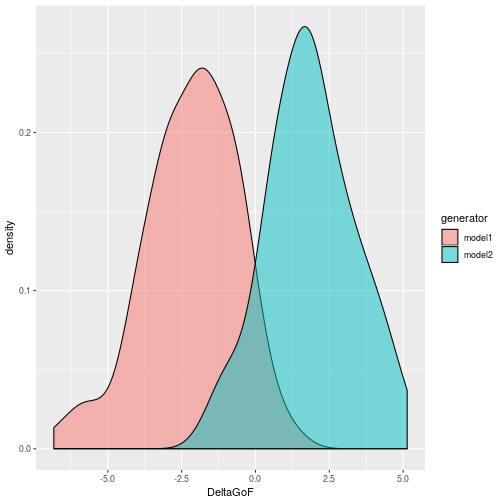
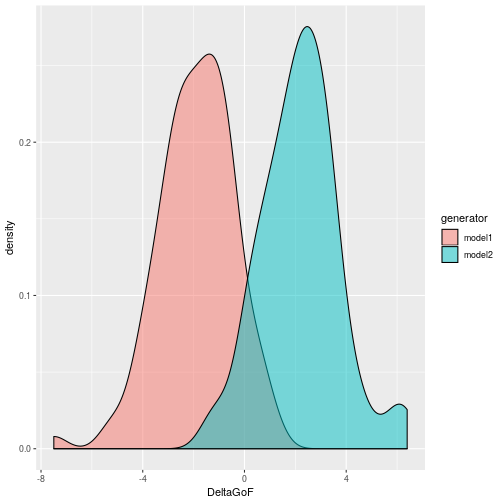
learning to use Rmd

diff --git a/README.md b/README.md
@@ -1,9 +1,3 @@
-<!--
----
-output: github_document
----
--->
-
 <!-- README.md is generated from README.Rmd. Please edit that file -->
 
 
@@ -11,6 +5,7 @@ output: github_document
 
 pbcm is an R package that implements both data-informed and data-uninformed versions of the Parametric Bootstrap Cross-fitting Method (PBCM; Wagenmakers et al. 2004), a general-purpose technique for binary model selection. Some auxiliary routines, such as decision through *k* nearest neighbours classification (Schultheis & Singhaniya 2015), are also implemented.
 
+<!--
 ## Installation
 
 You can install the released version of pbcm from [CRAN](https://CRAN.R-project.org) with:
@@ -18,6 +13,8 @@ You can install the released version of pbcm from [CRAN](https://CRAN.R-project.
 ``` r
 install.packages("pbcm")
 ```
+-->
+
 
 ## Basic usage
 
@@ -78,13 +75,13 @@ Here, `args1` and `args2` hold arguments passed to `myfitfun`, while `genargs1` 
 
 ```r
 head(myboot)
-#>   model1_p model2_p rep generator     GoF1     GoF2  DeltaGoF
-#> 1        1       NA   1    model1 23.45904 24.83311 -1.374074
-#> 2        1       NA   2    model1 26.62514 29.28760 -2.662461
-#> 3        1       NA   3    model1 29.90476 31.07734 -1.172576
-#> 4        1       NA   4    model1 22.71312 28.82541 -6.112288
-#> 5        1       NA   5    model1 24.94802 27.67818 -2.730165
-#> 6        1       NA   6    model1 25.18297 26.35922 -1.176251
+#>   model1_p model2_p rep generator     GoF1     GoF2   DeltaGoF
+#> 1        1       NA   1    model1 29.78358 30.66719 -0.8836032
+#> 2        1       NA   2    model1 23.19477 25.25275 -2.0579877
+#> 3        1       NA   3    model1 23.78050 27.96290 -4.1823970
+#> 4        1       NA   4    model1 29.07336 32.04524 -2.9718760
+#> 5        1       NA   5    model1 25.73710 28.49222 -2.7551193
+#> 6        1       NA   6    model1 25.66593 28.38585 -2.7199180
 ```
 
 We can easily produce a nice plot of the `DeltaGoF` distributions:
@@ -103,8 +100,8 @@ Since the definition of `DeltaGoF` is `GoF1 - GoF2`, and since we have defined `
 ```r
 emp <- pbcm::empirical.GoF(mockdata, fun1=myfitfun, fun2=myfitfun, args1=list(p=1), args2=list(p=2))
 print(emp)
-#>       GoF1     GoF2  DeltaGoF
-#> 1 23.40029 25.75858 -2.358292
+#>       GoF1     GoF2   DeltaGoF
+#> 1 23.39446 24.26343 -0.8689749
 ```
 
 This suggests that model 1 is the true generator, since the empirical value of `DeltaGoF` would appear to be closer to that distribution. To get a more quantitative angle on this, we can use e.g. *k* nearest neighbours (*k*-NN) classification to decide the issue:
@@ -113,7 +110,7 @@ This suggests that model 1 is the true generator, since the empirical value of `
 ```r
 pbcm::kNN.classification(df=myboot, DeltaGoF.emp=emp$DeltaGoF, k=10)
 #>    k dist_model1 dist_model2 decision
-#> 1 10   0.4477701    28.36902   model1
+#> 1 10   0.1502513    5.528051   model1
 ```
 
 Comparing the empirical value of `DeltaGoF` to its 10 nearest neighbours in both bootstrap distributions, the distance to the model 1 distribution is smaller, hence model 1 is selected.
@@ -123,11 +120,11 @@ We can even try different values of *k* to see if that has any effect on the dec
 
 ```r
 pbcm::kNN.classification(df=myboot, DeltaGoF.emp=emp$DeltaGoF, k=c(1, 10, 50, 100))
-#>     k  dist_model1 dist_model2 decision
-#> 1   1 1.173415e-03    0.434248   model1
-#> 2  10 4.477701e-01   28.369023   model1
-#> 3  50 1.822919e+01  497.942666   model1
-#> 4 100 2.459495e+02 1987.769285   model1
+#>     k  dist_model1  dist_model2 decision
+#> 1   1 2.139888e-04 4.500289e-03   model1
+#> 2  10 1.502513e-01 5.528051e+00   model1
+#> 3  50 1.929081e+01 2.199585e+02   model1
+#> 4 100 3.178388e+02 1.164866e+03   model1
 ```
 
 
